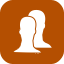
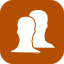
Retina Implementations

Changed region(s): [[0.5938, 0.1562, 0.875, 0.75], [0.4375, 0.1562, 0.625, 0.8438], [0.1562, 0.25, 0.4062, 0.8438]]

diff --git a/system/templates/admin/index.html b/system/templates/admin/index.html
@@ -149,7 +149,7 @@
 										<% END %>
 											<a href="{BASE_SCRIPT}admin/{$this.uname}{URLEND}" title="$this.text">
 												<% IF $this.icon %>
-													<img src="$this.icon" alt="$this.text" />
+													<img src="$this.icon" data-retina="<% retinaPath($this.icon) %>" alt="$this.text" />
 												<% ELSE %>
 													<div class="no-image"></div>
 												<% END %>

diff --git a/system/templates/admin/style.css b/system/templates/admin/style.css
@@ -107,6 +107,7 @@ h1, h2, h3 {
 	padding-top: 0.25em;
 	border-top: 0.25em solid #666;
 	
+	
 	#navi-toggle {
 		text-decoration: none !important;
 		position: relative;
@@ -168,6 +169,9 @@ h1, h2, h3 {
 		left: 0;
 		z-index: 950;
 		top: 3.125em;
+		
+		-webkit-overflow-scrolling: touch;
+		overflow: auto;
 		
 		#navigation {
 			list-style: none;

diff --git a/system/core/applibs.php b/system/core/applibs.php
@@ -962,6 +962,19 @@ function debug_log($data) {
 }
 
 /**
+ * checks for available retina-file on file-path.
+ *
+ * @param file
+*/
+function RetinaPath($file) {
+	$retinaPath = substr($file, 0, strrpos($file, ".")) . "@2x." . substr($file, strpos($file, ".") + 1);
+	if(file_exists($retinaPath))
+		return $retinaPath;
+	
+	return $file;
+}
+
+/**
  * Writes the server configuration file
  *@name writeServerConfig
  *@access public

diff --git a/system/core/Core.php b/system/core/Core.php
@@ -431,7 +431,7 @@ class Core extends object {
 
 		if(self::$favicon) {
 			$html .= '		<link rel="icon" href="' . self::$favicon . '" type="image/x-icon" />';
-			$html .= '		<link rel="apple-touch-icon-precomposed" href="'.self::$favicon.'" />';
+			$html .= '		<link rel="apple-touch-icon-precomposed" href="'.RetinaPath(self::$favicon).'" />';
 		}
 
 		return $html;

diff --git a/system/libs/template/tpl.php b/system/libs/template/tpl.php
@@ -1849,6 +1849,13 @@ class tplCaller extends Object implements ArrayAccess
 				}
 		}
 		
+		/**
+		 * retina.
+		*/
+		public function RetinaPath($file) {
+			return RetinaPath($file);
+		}
+		
 }
 /**
  * tpl-cacher
